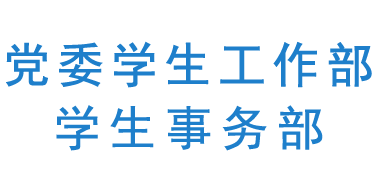
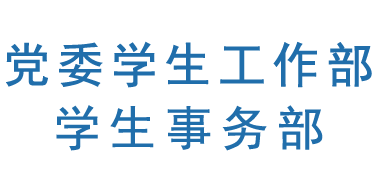
xsc

diff --git a/Application/Home/View/Xsc/Index/index.html b/Application/Home/View/Xsc/Index/index.html
@@ -135,15 +135,34 @@
                 <a class="" href="#">
                     <img src="__PUBLIC__/Xsc/images/xsbd.png" alt="">
                 </a>
-                <a class="" href="http://202.119.248.129:886/">
-                    <img src="__PUBLIC__/Xsc/images/alxs.png" alt="">
+                <a class="" href="" id="al">
+                    <img src="__PUBLIC__/Xsc/images/alst.png" alt="">
                 </a>
-                <a class="" href="http://202.119.248.129/login.aspx">
-                    <img src="__PUBLIC__/Xsc/images/aljs.png" alt="">
-                </a>
+
+                <div id="alst" style="display: none;  position: absolute; z-index: 80;  width: 1px;">
+                    <a class="" href="http://202.119.248.129:886/">
+                        <img src="__PUBLIC__/Xsc/images/alxs.png" alt="">
+                    </a>
+                    <a class="" href="http://202.119.248.129/login.aspx">
+                        <img src="__PUBLIC__/Xsc/images/aljs.png" alt="">
+                    </a>
+                </div>
+
                 <a class="" href="{:U('Admin/Index/index')}">
                     <img src="__PUBLIC__/Xsc/images/gldl.png" alt="">
                 </a>
+
+
+                <form name="fr" id="fr" action="{:U('Home/Archive/search')}" method="get">
+                    <div style="width:140px;  height:26px; overflow:hidden; padding: 5px 2px 0px;float:left;">
+                        <input name="keyword" type="text" value="" style="   border: 1px solid #ccc;
+ width:100px; height:13px; padding:5px 0 6px 0; line-height:13px; color:#666; outline:none;  text-indent:6px; font-family:'微软雅黑'; font-size:12px;float:left; background:0px;"/>
+                        <input name="" type="submit" value="搜索" style="  border: 1px solid #ccc;
+; background:0px;  width:35px; cursor:pointer; height:26px; display:block; outline:none;">搜索</input>
+                    </div>
+                </form>
+
+
             </div>
         </div>
     </div>
@@ -378,7 +397,73 @@
                 }).find("li:first").appendTo($self);
             })
         }
-    })
+    });
+
+
+    $(document).ready(function () {
+
+
+//        $('#al').hover(
+//                function () {
+//                    $("#alst").show();
+//                },
+//                function () {
+////                    sleep(3000);
+//                    $("#alst").hide();
+//                }
+//        )
+//
+
+
+        (function ($) {
+            $.fn.hoverDelay = function (options) {
+                var defaults = {
+                    hoverDuring: 10,
+                    outDuring: 5000,
+                    hoverEvent: function () {
+                        $.noop();
+                    },
+                    outEvent: function () {
+                        $.noop();
+                    }
+                };
+                var sets = $.extend(defaults, options || {});
+                var hoverTimer, outTimer;
+                return $(this).each(function () {
+                    $(this).hover(function () {
+                        clearTimeout(outTimer);
+                        hoverTimer = setTimeout(sets.hoverEvent, sets.hoverDuring);
+                    }, function () {
+                        clearTimeout(hoverTimer);
+                        outTimer = setTimeout(sets.outEvent, sets.outDuring);
+                    });
+                });
+            }
+        })(jQuery);
+
+
+
+
+
+        $('#al').each(function () {
+            var that = $(this);
+
+            that.hoverDelay({
+                outDuring: 5000,
+                hoverEvent: function () {
+                    $("#alst").show();
+                },
+                outEvent: function () {
+                    $("#alst").hide();
+                }
+            });
+
+
+        });
+
+    });
+
+
 </script>
 </body>
 </html>

diff --git a/Application/Home/View/Xsc/Widget/mainMenu.html b/Application/Home/View/Xsc/Widget/mainMenu.html
@@ -1,6 +1,6 @@
 <div class="headerwrap">
     <div class="header" style=" margin: 0px auto !important;">
-        <div class="left" style="  color: #379be9;">
+        <div class="left" style="  color: #206EAB;">
 
             http://xsc.njtech.edu.cn
 
@@ -25,44 +25,6 @@
         <!--<img style="height: 90px ; margin: 10px 0 10px 0; " src="__PUBLIC__/Xsc/images/njtech.jpg" alt="">-->
 
         <div style="height: 90px ; margin: 0px 0 0 0; float: right; text-align: right">
-
-            <div style="font-size: 15px;width: 100%">
-                {:hook('pageHeader', "")}
-
-            </div>
-
-            <div style="clear:both;"></div>
-
-            <div style="  margin-right: 5px;  font-size: 15px;">
-
-                <script language="JavaScript">
-                    var enabled = 0;
-                    today = new Date();
-                    var day;
-                    var date;
-                    if (today.getDay() == 0) day = "星期日"
-                    if (today.getDay() == 1) day = "星期一"
-                    if (today.getDay() == 2) day = "星期二"
-                    if (today.getDay() == 3) day = "星期三"
-                    if (today.getDay() == 4) day = "星期四"
-                    if (today.getDay() == 5) day = "星期五"
-                    if (today.getDay() == 6) day = "星期六"
-                    date1 = (today.getFullYear()) + "年" + (today.getMonth() + 1 ) + "月" + today.getDate() + "日 ";
-                    date2 = day;
-                    document.write(date1);//.fontsize为定义字号
-                    document.write(date2);
-                </script>
-
-            </div>
-
-            <form name="fr" id="fr" action="{:U('Home/Archive/search')}" method="get">
-                <div style="width:207px;  height:26px; overflow:hidden; padding: 5px 2px 0px;float:right;">
-                    <input name="keyword" type="text" value="" style="   border: 1px solid #ccc;
- width:166px; height:13px; padding:5px 0 6px 0; line-height:13px; color:#666; outline:none;  text-indent:6px; font-family:'微软雅黑'; font-size:12px;float:left; background:0px;" />
-                    <input name="" type="submit" value="搜索" style="  border: 1px solid #ccc;
-; background:0px;  width:35px; cursor:pointer; height:26px; display:block; outline:none;">搜索</input>
-                </div>
-            </form>
 
         </div>
 

diff --git a/Public/Xsc/static/index.css b/Public/Xsc/static/index.css
@@ -43,7 +43,7 @@ img {
 
 .green_nav {
     /*background-image: url(../images/1/indexnav.png);*/
-    background: #379be9;
+    background: #206EAB;
 
     /*width: 1050px*/
     /*width: 1140px;*/
@@ -253,9 +253,6 @@ img {
     line-height: 35px;
 }
 
-.left_half .body ul li a {
-    color: #676767;
-}
 
 .left_half .body ul li a:hover {
     color: #0a5ab3;
@@ -863,8 +860,8 @@ img {
 #content {
     /*width: 1050px;*/
     /* width: 1140px; */
-    /* background: #F8F8F8; */
-    background: url(./images/bg.gif) repeat;
+     background: #f4f4f4;
+    /*background: url(./images/bg.gif) repeat;*/
     margin: 0 auto;
     padding-bottom: 10px;
     /*border: 1px solid #e7eaed;*/
